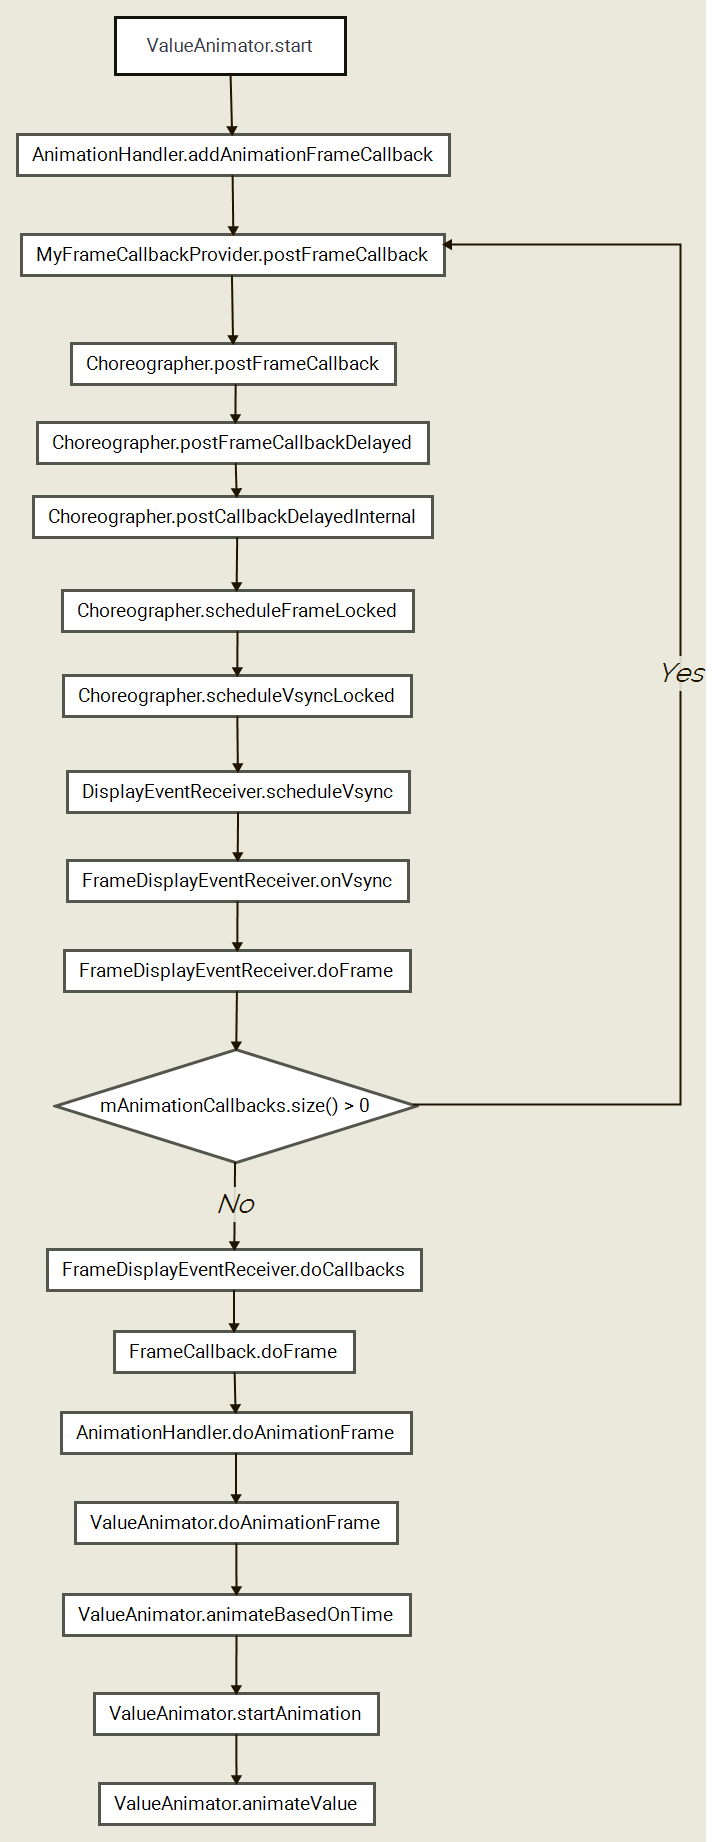
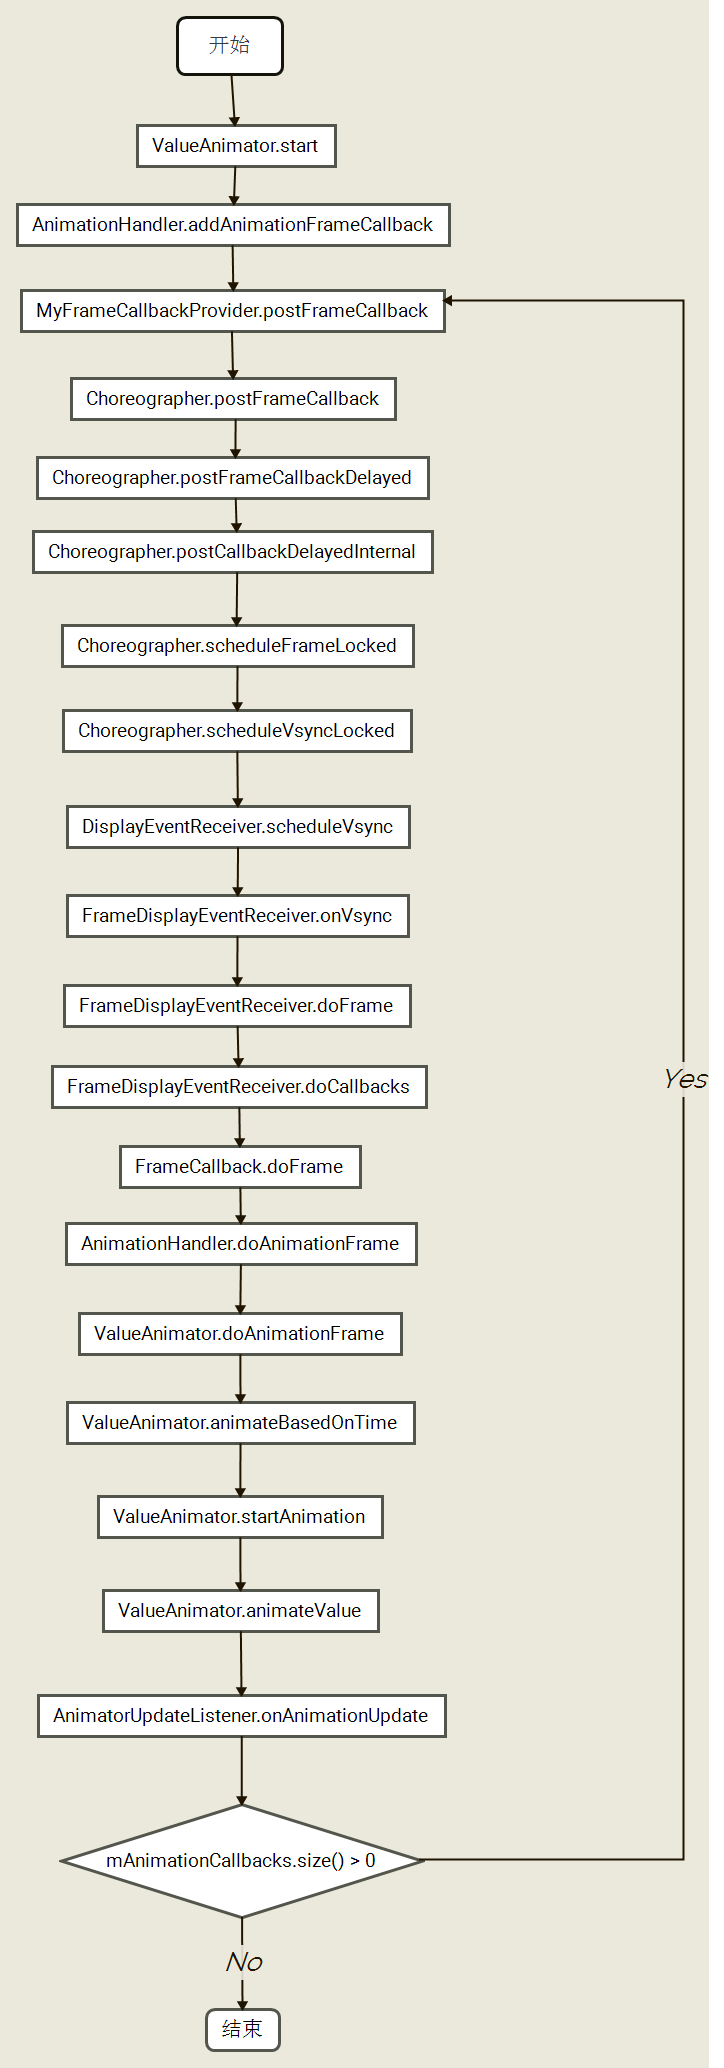
F1 流程图更换

diff --git a/Blog/F1、Property Animation.md b/Blog/F1、Property Animation.md
@@ -588,7 +588,7 @@ boolean animateBasedOnTime(long currentTime) {
   // mRunning要到执行startAnimation才会为true
     if (mRunning) {
         final long scaledDuration = getScaledDuration();
-      // 当执行时间 >= (设置的时间*执行次数)时，fraction >= 1
+      // 当执行时间 >= (设置的时间*执行次数)时，fraction >= (执行次数+1)
         final float fraction = scaledDuration > 0 ?
                 (float)(currentTime - mStartTime) / scaledDuration : 1f;
         final float lastFraction = mOverallFraction;
@@ -704,7 +704,7 @@ private void cleanUpList() {
 最后整理下流程 : 
 
 <br>
-<img src="http://ww1.sinaimg.cn/mw1024/9e727a53gw1f9llfp98u7j20k41lg472.jpg" alt="Animator" title="Animator" />
+<img src="https://github.com/Idtk/Blog/blob/master/Image/Animator/Animator.png" alt="Log" title="Log" />
 <br>
 
 如果在阅读过程中，有任何疑问与问题，欢迎与我联系。<br>
